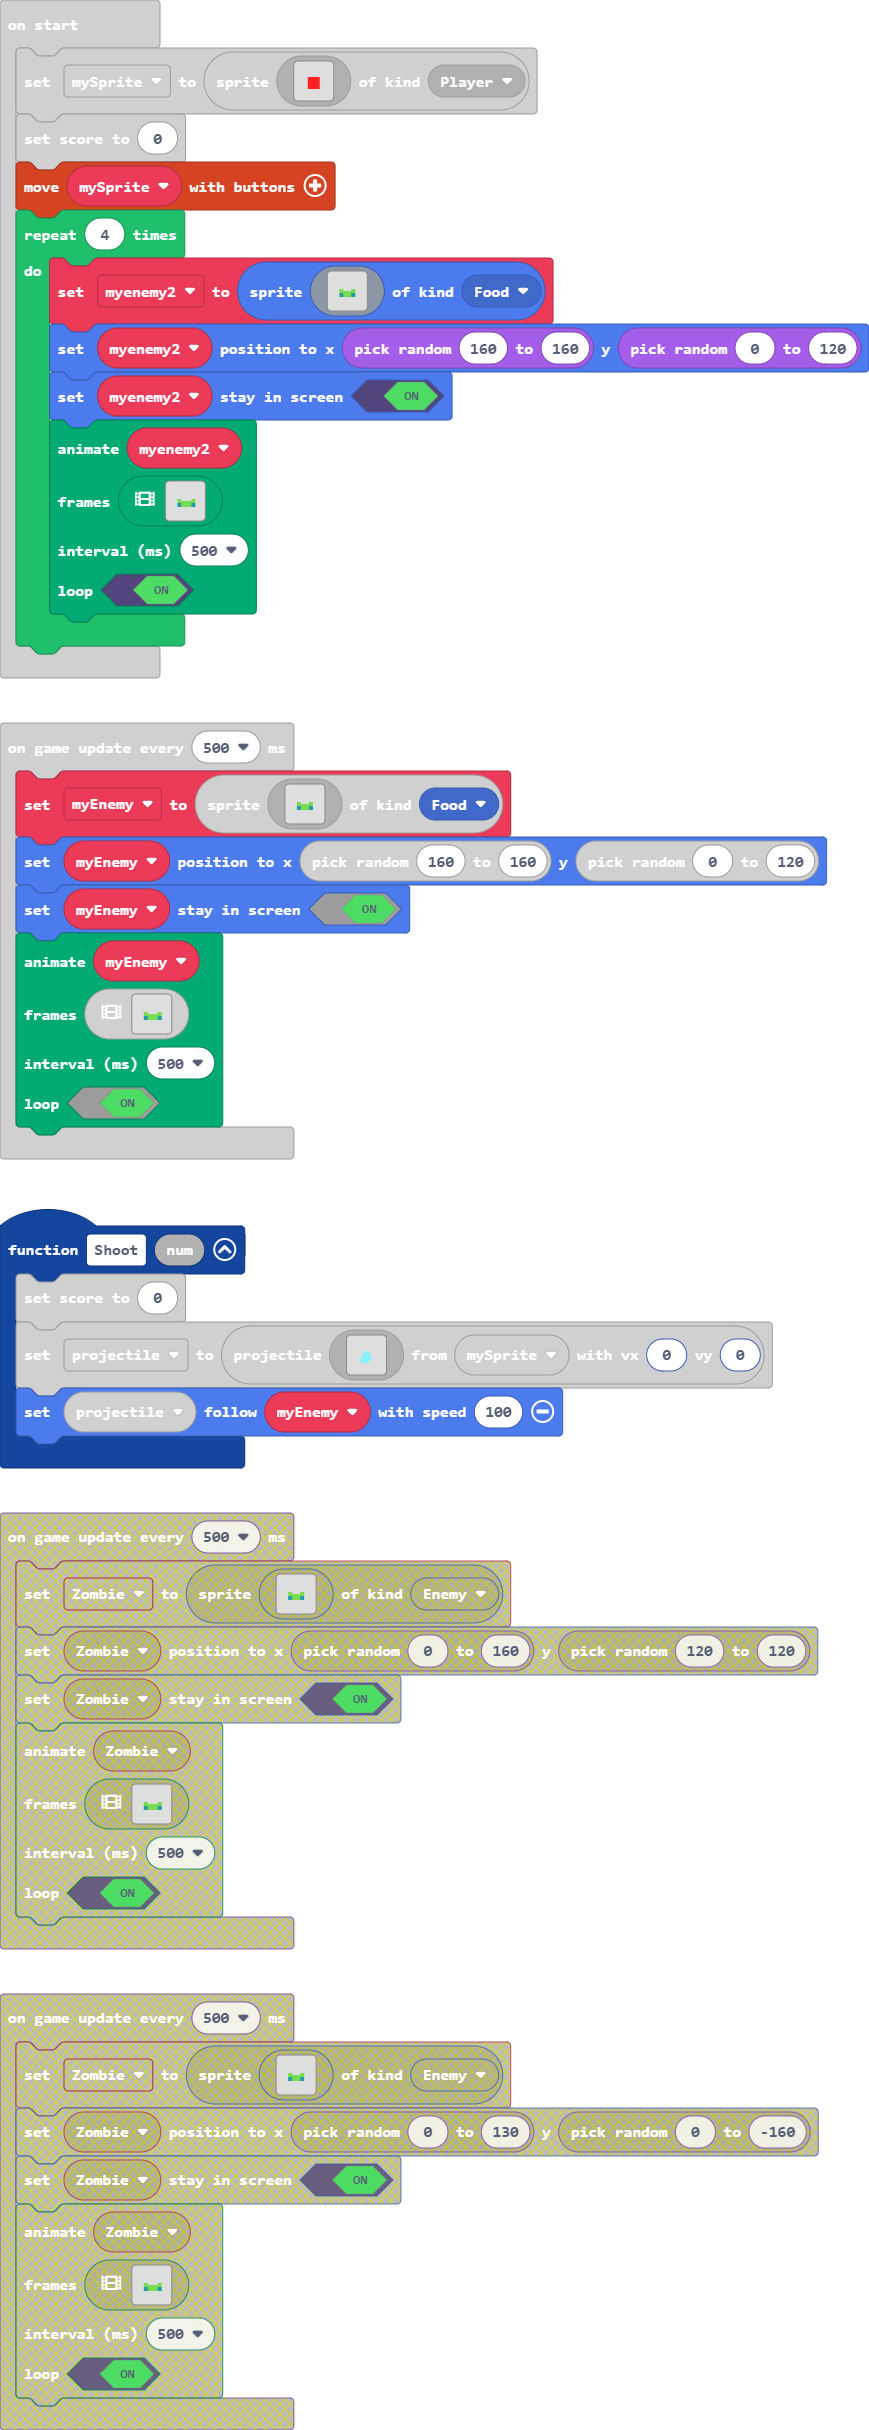
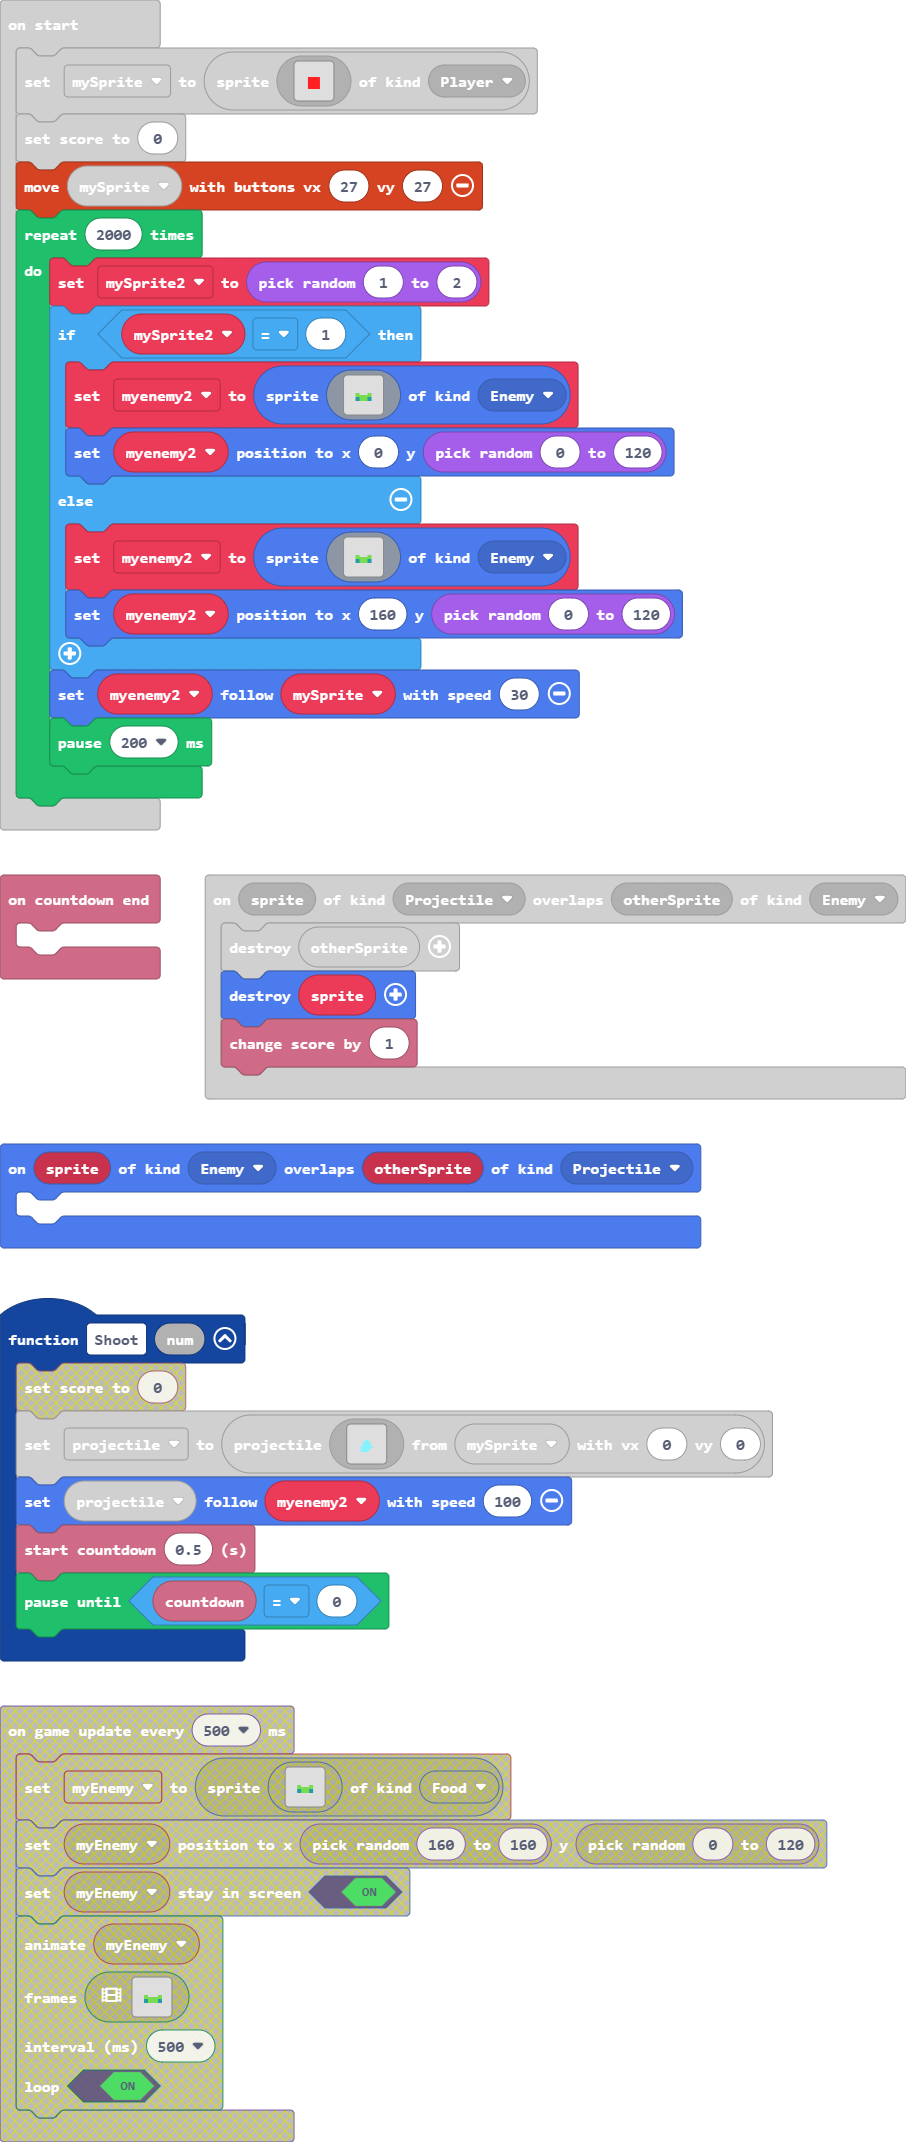
Update main.blocks, main.ts

diff --git a/main.ts b/main.ts
@@ -1,8 +1,13 @@
 controller.A.onEvent(ControllerButtonEvent.Pressed, function () {
     Shoot(1)
 })
+sprites.onOverlap(SpriteKind.Enemy, SpriteKind.Projectile, function (sprite, otherSprite) {
+	
+})
+info.onCountdownEnd(function () {
+	
+})
 function Shoot (num: number) {
-    info.setScore(0)
     projectile = sprites.createProjectileFromSprite(img`
         . . . . . . . . . . . . . . . . 
         . . . . . . . . . . . . . . . . 
@@ -21,15 +26,18 @@ function Shoot (num: number) {
         . . . . . . . . . . . . . . . . 
         . . . . . . . . . . . . . . . . 
         `, mySprite, 0, 0)
-    projectile.follow(myEnemy, 100)
+    projectile.follow(myenemy2, 100)
+    info.startCountdown(0.5)
+    pauseUntil(() => info.countdown() == 0)
 }
 sprites.onOverlap(SpriteKind.Projectile, SpriteKind.Enemy, function (sprite, otherSprite) {
     sprites.destroy(otherSprite)
+    sprites.destroy(sprite)
     info.changeScoreBy(1)
 })
-let myEnemy: Sprite = null
 let projectile: Sprite = null
 let myenemy2: Sprite = null
+let mySprite2 = 0
 let mySprite: Sprite = null
 mySprite = sprites.create(img`
     . . . . . . . . . . . . . . . . 
@@ -50,165 +58,53 @@ mySprite = sprites.create(img`
     . . . . . . . . . . . . . . . . 
     `, SpriteKind.Player)
 info.setScore(0)
-controller.moveSprite(mySprite)
-for (let index = 0; index < 4; index++) {
-    myenemy2 = sprites.create(img`
-        . . . . . . . . . . . . . . . . 
-        . . . . . . . . . . . . . . . . 
-        . . . . . . . . . . . . . . . . 
-        . . . . . . . . . . . . . . . . 
-        . . . . . . . . . . . . . . . . 
-        . . . . . . . . . . . . . . . . 
-        . . . . . . . . . . . . . . . . 
-        . . . . 7 7 . . . . 7 7 . . . . 
-        . . . . 7 7 7 7 7 7 7 7 . . . . 
-        . . . . 6 6 7 7 7 7 6 6 . . . . 
-        . . . . 6 6 7 7 7 7 6 6 . . . . 
-        . . . . . . . . . . . . . . . . 
-        . . . . . . . . . . . . . . . . 
-        . . . . . . . . . . . . . . . . 
-        . . . . . . . . . . . . . . . . 
-        . . . . . . . . . . . . . . . . 
-        `, SpriteKind.Food)
-    myenemy2.setPosition(randint(160, 160), randint(0, 120))
-    myenemy2.setStayInScreen(true)
-    animation.runImageAnimation(
-    myenemy2,
-    [img`
-        . . . . . . . . . . . . . . . . 
-        . . . . . . . . . . . . . . . . 
-        . . . . . . . . . . . . . . . . 
-        . . . . . . . . . . . . . . . . 
-        . . . . . . . . . . . . . . . . 
-        . . . . . . . . . . . . . . . . 
-        . . . . . . . . . . . . . . . . 
-        . . . . 7 7 . . . . . 7 7 . . . 
-        . . . . 7 7 7 7 7 7 7 7 7 . . . 
-        . . . . 6 6 7 7 7 7 7 6 6 . . . 
-        . . . . 6 6 7 7 7 7 7 6 6 . . . 
-        . . . . . . . . . . . . . . . . 
-        . . . . . . . . . . . . . . . . 
-        . . . . . . . . . . . . . . . . 
-        . . . . . . . . . . . . . . . . 
-        . . . . . . . . . . . . . . . . 
-        `,img`
-        . . . . . . . . . . . . . . . . 
-        . . . . . . . . . . . . . . . . 
-        . . . . . . . . . . . . . . . . 
-        . . . . . . . . . . . . . . . . 
-        . . . . . . . . . . . . . . . . 
-        . . . . . . . . . . . . . . . . 
-        . . . . . . . . . . . . . . . . 
-        . . . . 7 7 . . . . . . . . . . 
-        . . . . 7 7 7 7 7 7 7 7 7 . . . 
-        . . . . 6 6 7 7 7 7 7 6 6 . . . 
-        . . . . 6 6 7 7 7 7 7 6 6 . . . 
-        . . . . . . . . . . . . . . . . 
-        . . . . . . . . . . . . . . . . 
-        . . . . . . . . . . . . . . . . 
-        . . . . . . . . . . . . . . . . 
-        . . . . . . . . . . . . . . . . 
-        `,img`
-        . . . . . . . . . . . . . . . . 
-        . . . . . . . . . . . . . . . . 
-        . . . . . . . . . . . . . . . . 
-        . . . . . . . . . . . . . . . . 
-        . . . . . . . . . . . . . . . . 
-        . . . . . . . . . . . . . . . . 
-        . . . . . . . . . . . . . . . . 
-        . . . . . . . . . . . 7 7 . . . 
-        . . . . 7 7 7 7 7 7 7 7 7 . . . 
-        . . . . 6 6 7 7 7 7 7 6 6 . . . 
-        . . . . 6 6 7 7 7 7 7 6 6 . . . 
-        . . . . . . . . . . . . . . . . 
-        . . . . . . . . . . . . . . . . 
-        . . . . . . . . . . . . . . . . 
-        . . . . . . . . . . . . . . . . 
-        . . . . . . . . . . . . . . . . 
-        `],
-    500,
-    true
-    )
+controller.moveSprite(mySprite, 27, 27)
+for (let index = 0; index < 2000; index++) {
+    mySprite2 = randint(1, 2)
+    if (mySprite2 == 1) {
+        myenemy2 = sprites.create(img`
+            . . . . . . . . . . . . . . . . 
+            . . . . . . . . . . . . . . . . 
+            . . . . . . . . . . . . . . . . 
+            . . . . . . . . . . . . . . . . 
+            . . . . . . . . . . . . . . . . 
+            . . . . . . . . . . . . . . . . 
+            . . . . . . . . . . . . . . . . 
+            . . . . 7 7 . . . . 7 7 . . . . 
+            . . . . 7 7 7 7 7 7 7 7 . . . . 
+            . . . . 6 6 7 7 7 7 6 6 . . . . 
+            . . . . 6 6 7 7 7 7 6 6 . . . . 
+            . . . . . . . . . . . . . . . . 
+            . . . . . . . . . . . . . . . . 
+            . . . . . . . . . . . . . . . . 
+            . . . . . . . . . . . . . . . . 
+            . . . . . . . . . . . . . . . . 
+            `, SpriteKind.Enemy)
+        myenemy2.setPosition(0, randint(0, 120))
+    } else {
+        myenemy2 = sprites.create(img`
+            . . . . . . . . . . . . . . . . 
+            . . . . . . . . . . . . . . . . 
+            . . . . . . . . . . . . . . . . 
+            . . . . . . . . . . . . . . . . 
+            . . . . . . . . . . . . . . . . 
+            . . . . . . . . . . . . . . . . 
+            . . . . . . . . . . . . . . . . 
+            . . . . 7 7 . . . . 7 7 . . . . 
+            . . . . 7 7 7 7 7 7 7 7 . . . . 
+            . . . . 6 6 7 7 7 7 6 6 . . . . 
+            . . . . 6 6 7 7 7 7 6 6 . . . . 
+            . . . . . . . . . . . . . . . . 
+            . . . . . . . . . . . . . . . . 
+            . . . . . . . . . . . . . . . . 
+            . . . . . . . . . . . . . . . . 
+            . . . . . . . . . . . . . . . . 
+            `, SpriteKind.Enemy)
+        myenemy2.setPosition(160, randint(0, 120))
+    }
+    myenemy2.follow(mySprite, 30)
+    pause(200)
 }
-game.onUpdateInterval(500, function () {
-    myEnemy = sprites.create(img`
-        . . . . . . . . . . . . . . . . 
-        . . . . . . . . . . . . . . . . 
-        . . . . . . . . . . . . . . . . 
-        . . . . . . . . . . . . . . . . 
-        . . . . . . . . . . . . . . . . 
-        . . . . . . . . . . . . . . . . 
-        . . . . . . . . . . . . . . . . 
-        . . . . 7 7 . . . . 7 7 . . . . 
-        . . . . 7 7 7 7 7 7 7 7 . . . . 
-        . . . . 6 6 7 7 7 7 6 6 . . . . 
-        . . . . 6 6 7 7 7 7 6 6 . . . . 
-        . . . . . . . . . . . . . . . . 
-        . . . . . . . . . . . . . . . . 
-        . . . . . . . . . . . . . . . . 
-        . . . . . . . . . . . . . . . . 
-        . . . . . . . . . . . . . . . . 
-        `, SpriteKind.Food)
-    myEnemy.setPosition(randint(160, 160), randint(0, 120))
-    myEnemy.setStayInScreen(true)
-    animation.runImageAnimation(
-    myEnemy,
-    [img`
-        . . . . . . . . . . . . . . . . 
-        . . . . . . . . . . . . . . . . 
-        . . . . . . . . . . . . . . . . 
-        . . . . . . . . . . . . . . . . 
-        . . . . . . . . . . . . . . . . 
-        . . . . . . . . . . . . . . . . 
-        . . . . . . . . . . . . . . . . 
-        . . . . 7 7 . . . . . 7 7 . . . 
-        . . . . 7 7 7 7 7 7 7 7 7 . . . 
-        . . . . 6 6 7 7 7 7 7 6 6 . . . 
-        . . . . 6 6 7 7 7 7 7 6 6 . . . 
-        . . . . . . . . . . . . . . . . 
-        . . . . . . . . . . . . . . . . 
-        . . . . . . . . . . . . . . . . 
-        . . . . . . . . . . . . . . . . 
-        . . . . . . . . . . . . . . . . 
-        `,img`
-        . . . . . . . . . . . . . . . . 
-        . . . . . . . . . . . . . . . . 
-        . . . . . . . . . . . . . . . . 
-        . . . . . . . . . . . . . . . . 
-        . . . . . . . . . . . . . . . . 
-        . . . . . . . . . . . . . . . . 
-        . . . . . . . . . . . . . . . . 
-        . . . . 7 7 . . . . . . . . . . 
-        . . . . 7 7 7 7 7 7 7 7 7 . . . 
-        . . . . 6 6 7 7 7 7 7 6 6 . . . 
-        . . . . 6 6 7 7 7 7 7 6 6 . . . 
-        . . . . . . . . . . . . . . . . 
-        . . . . . . . . . . . . . . . . 
-        . . . . . . . . . . . . . . . . 
-        . . . . . . . . . . . . . . . . 
-        . . . . . . . . . . . . . . . . 
-        `,img`
-        . . . . . . . . . . . . . . . . 
-        . . . . . . . . . . . . . . . . 
-        . . . . . . . . . . . . . . . . 
-        . . . . . . . . . . . . . . . . 
-        . . . . . . . . . . . . . . . . 
-        . . . . . . . . . . . . . . . . 
-        . . . . . . . . . . . . . . . . 
-        . . . . . . . . . . . 7 7 . . . 
-        . . . . 7 7 7 7 7 7 7 7 7 . . . 
-        . . . . 6 6 7 7 7 7 7 6 6 . . . 
-        . . . . 6 6 7 7 7 7 7 6 6 . . . 
-        . . . . . . . . . . . . . . . . 
-        . . . . . . . . . . . . . . . . 
-        . . . . . . . . . . . . . . . . 
-        . . . . . . . . . . . . . . . . 
-        . . . . . . . . . . . . . . . . 
-        `],
-    500,
-    true
-    )
-})
 game.onUpdateInterval(500, function () {
 	
 })
